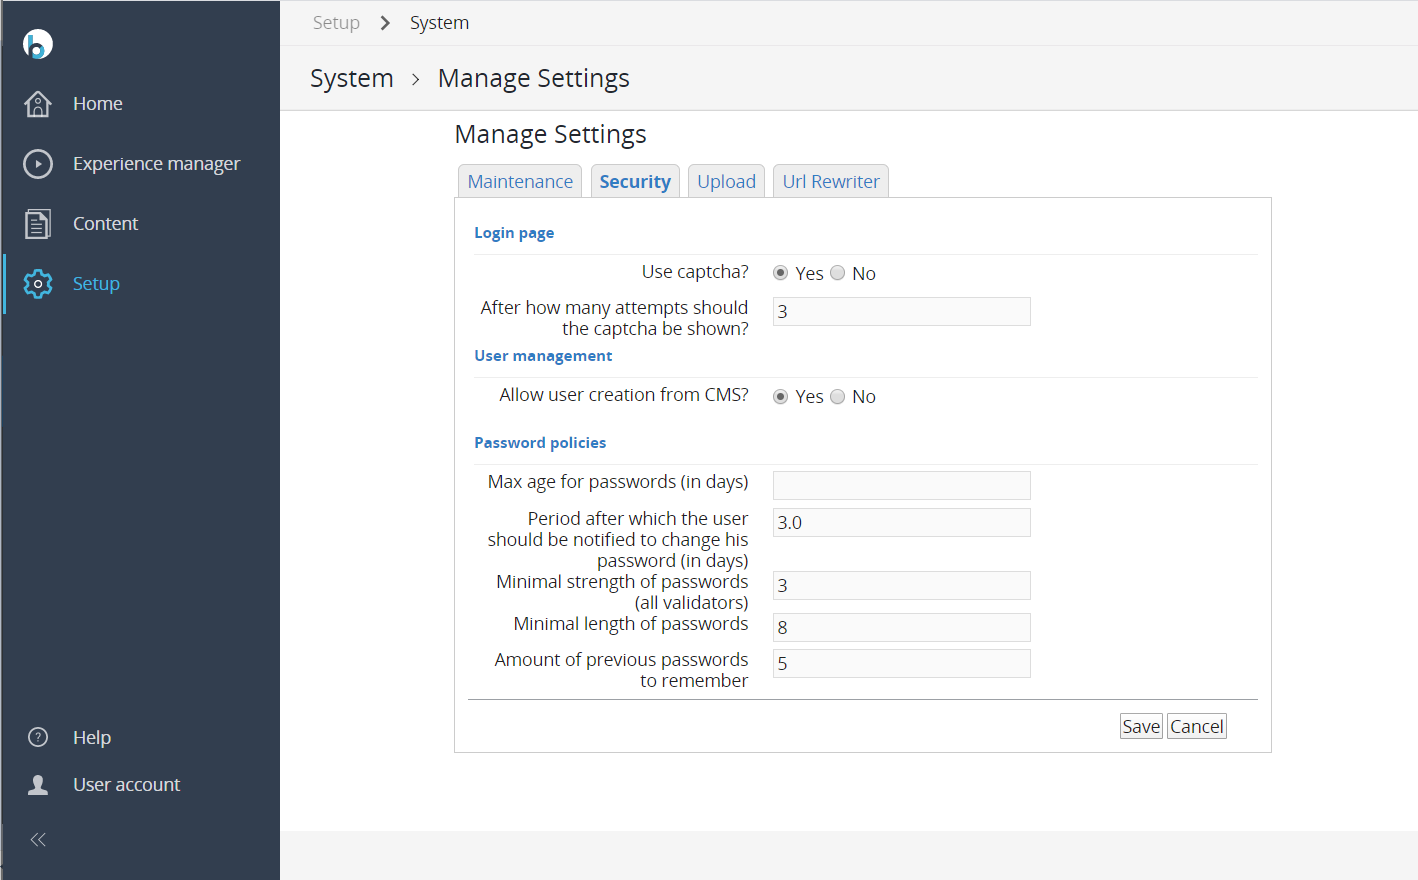
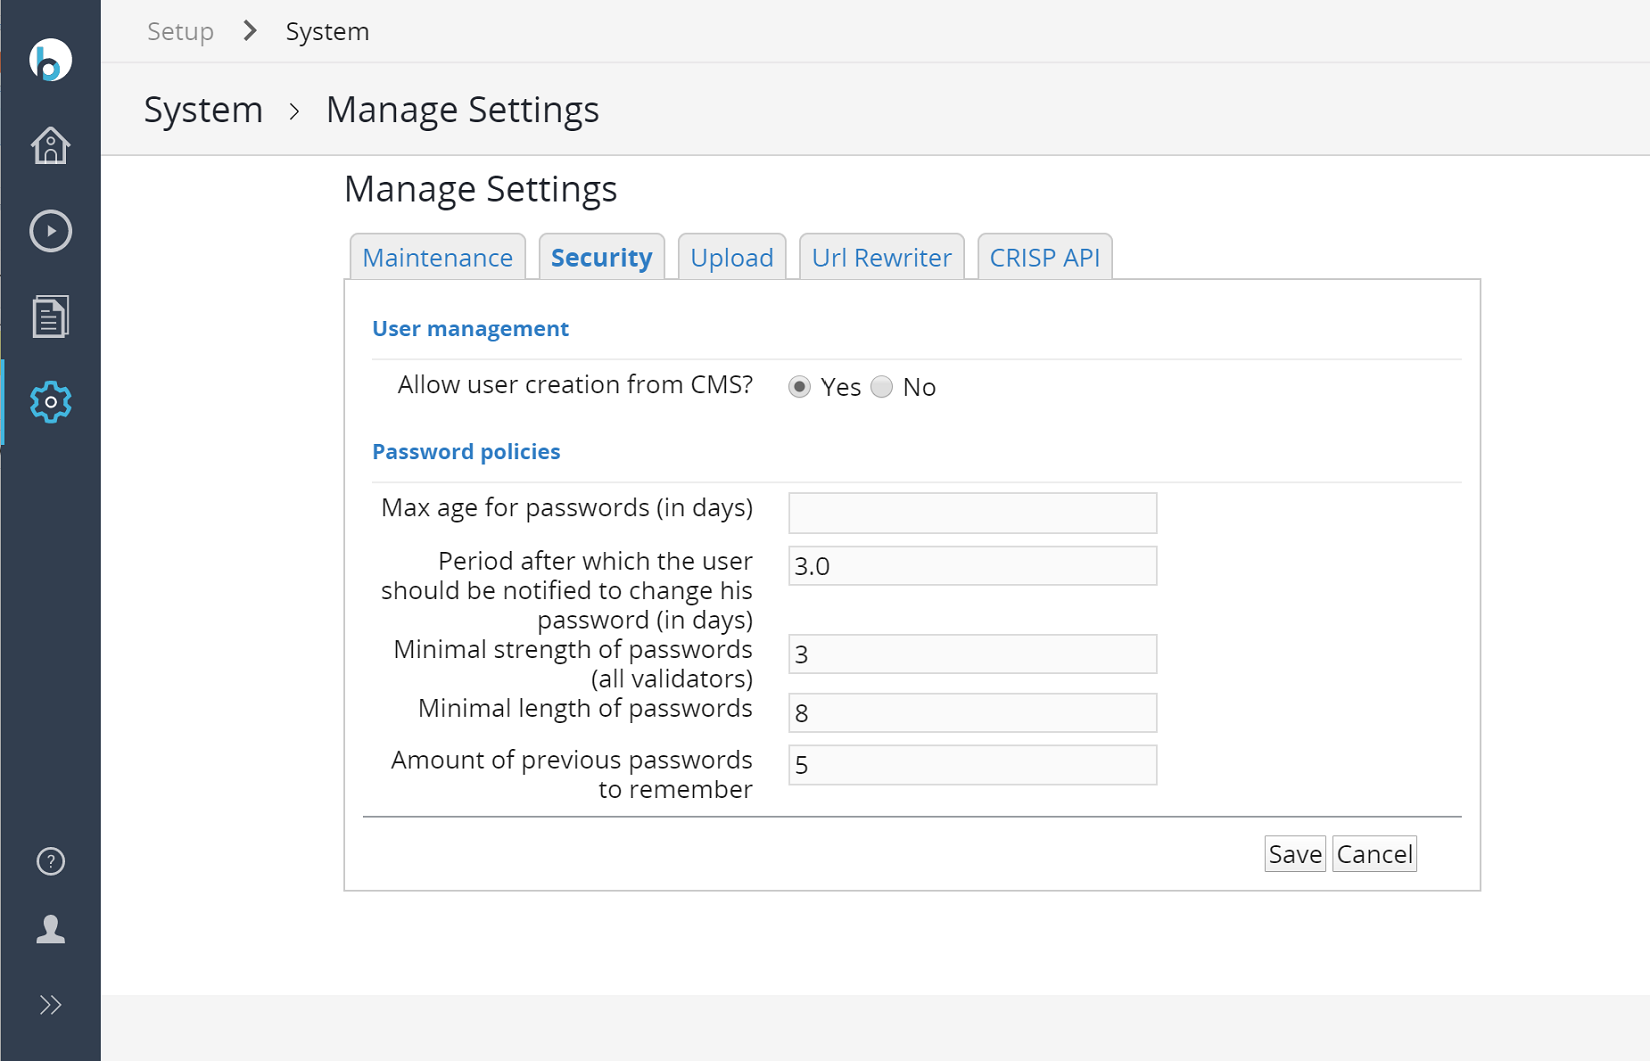
HIPFORGE-344 remove 'login page' section from security tab: Captcha settings are no longer used in version 14

Changed region(s): [[0.0, 0.0, 0.8999, 1.0]]

diff --git a/src/site/markdown/release-notes.md b/src/site/markdown/release-notes.md
@@ -20,7 +20,9 @@
 Release date: ? April 2020
 
 + [HIPFORGE-333](https://issues.onehippo.com/browse/HIPFORGE-333)<br/> 
-    Add a new tab for CRISP API resource space configuration.   
+    Add a new tab for CRISP API resource space configuration. 
++ [HIPFORGE-344](https://issues.onehippo.com/browse/HIPFORGE-344)<br/> 
+    Remove the Captcha-related settings from the tab 'Security', since these got removed in brXM 14.   
 
 ### Version 3.0.0 
 Release date: 29 January 2020

diff --git a/src/site/markdown/features.md b/src/site/markdown/features.md
@@ -31,7 +31,7 @@ The Settings management plugin covers the following features:
         + Max file size
         + etc
 + Security
-    + Login page security
+    + User management
     + Password policies
 + Url Rewriter
     + General configuration
